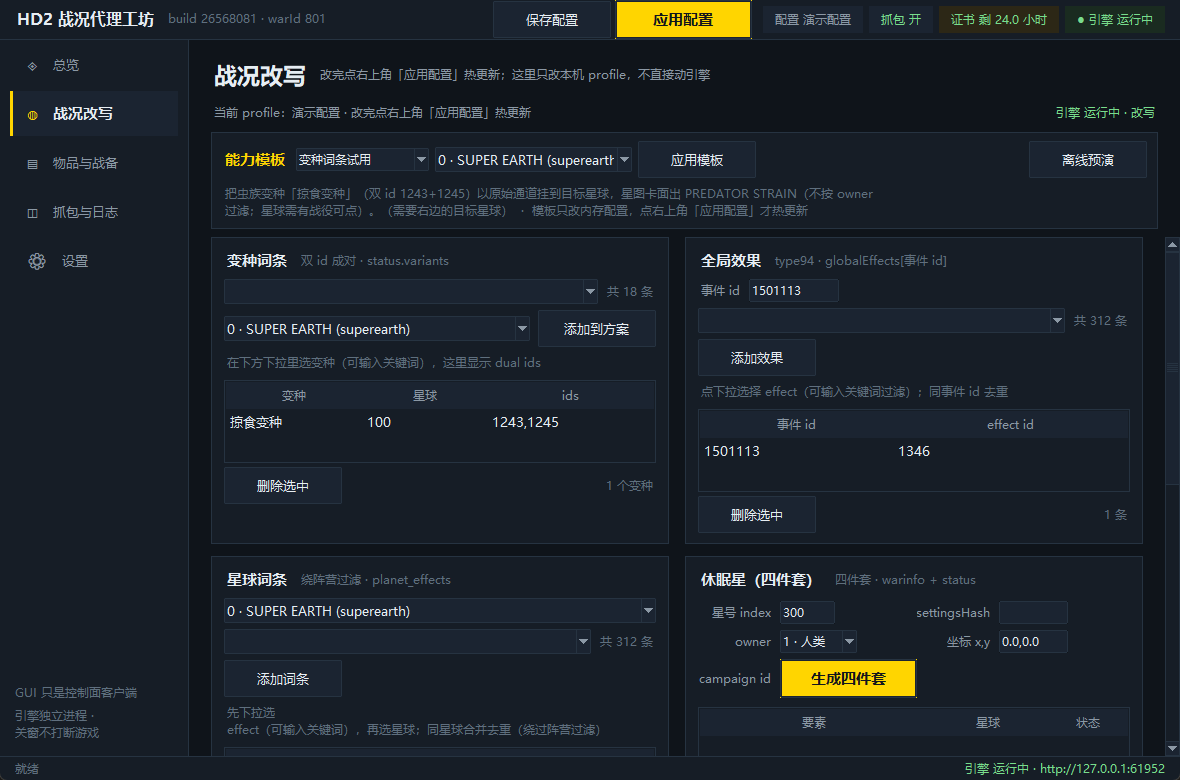
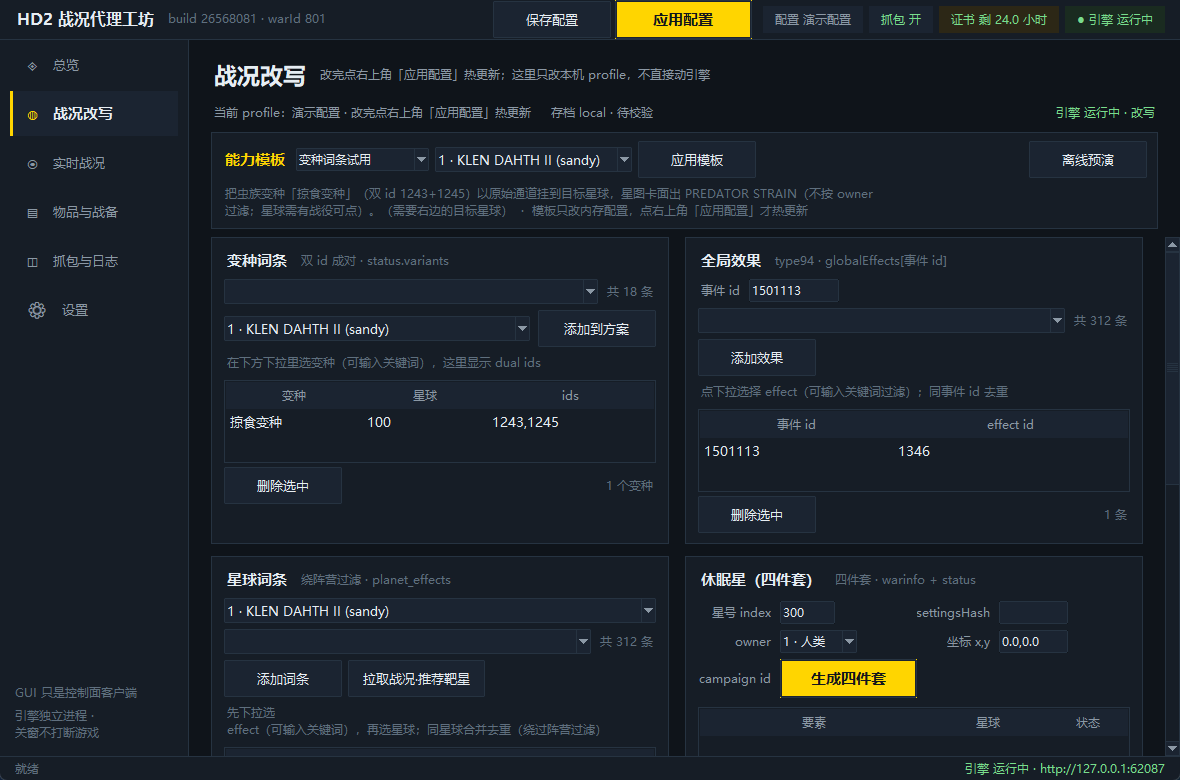
docs(release): 补 GUI 存档状态行截图（gui-smoke 实拍 0.5.0-alpha.1）

diff --git a/docs/RELEASE-v0.5.0-alpha.1.md b/docs/RELEASE-v0.5.0-alpha.1.md
@@ -61,7 +61,9 @@ experience / onboarding / shipName / location / purchasedSeasonPassItems / achie
 - 档内 `identity` 增 `source`（`getmotd` / `getmessages` / `adopted`）与 `identified_at`
   —— 排查「这份档怎么认到身份的」最省时间；
 - `/status` 新增 `save` 块（save_id / origin / verified / session_dirty / catalog_build / 最近事件 / 警告）；
-- GUI **战况页顶部**一行：`存档 <saveId> · 预绑定待校验 / 已校验 · 本局有写入`；
+- GUI **战况页顶部**一行：`存档 <saveId> · 预绑定待校验 / 已校验 · 本局有写入`（截图：
+  [`research/screenshots/gui-status.png`](../research/screenshots/gui-status.png)，
+  演示 profile 下显示 `存档 local · 待校验`）；
 - 配置：`saves.enabled`（默认开）、`saves.wait_seconds`（默认 1.2）、
   `saves.identity_strict`（严格模式：身份未校验拒绝写盘，默认关）。
 
